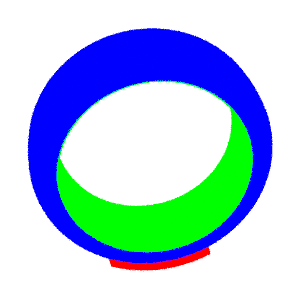
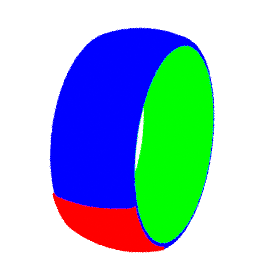
Aim the stone at the lens so it stays in the middle of the finger
Both ways of working out which way the stone should face lean on the tracker's
depth guess, and it is rough: a few degrees of error there roll the ring round the
finger until the stone sits on its edge, which is what a shopper sees and calls
crooked. The stone is now aimed straight at the camera, so it stays on the finger's
centre line whatever the pose, and the metric landmarks keep the one call they make
reliably — back of the hand or palm, which decides whether the stone shows at all.

diff --git a/app.js b/app.js
@@ -629,9 +629,13 @@ function placeRing(srcW, srcH) {
   // the same space as the ring's axis — the picture — otherwise the two disagree and the ring rolls round the
   // finger until the stone slides off its middle. Which face of the hand this is was already settled above
   // from the metric landmarks, which is what they are good for.
-  const rawSeen = new THREE.Vector3().subVectors(pts[5], pts[0])
-    .cross(new THREE.Vector3().subVectors(pts[17], pts[0])).normalize();
-  const palm = state.isRight ? rawSeen : rawSeen.negate();
+  // Both readings of that direction carry the tracker's depth guess, which is rough, and a few degrees of
+  // error there rolls the ring round the finger until the stone sits on its edge. What a shopper wants is
+  // plain: the stone in the middle of the finger, facing them. So the stone is aimed straight at the lens,
+  // and the metric landmarks keep only the one call they make reliably — back of the hand, or palm, which
+  // decides whether the stone shows at all.
+  const towardsCamera = (state.isRight ? raw.z : -raw.z) >= 0 ? 1 : -1;
+  const palm = new THREE.Vector3(0, 0, towardsCamera);
   // A finger pointing at the camera or curled up gives a segment barely a few pixels long: its direction is
   // noise, so hold the last good pose instead of throwing the ring around.
   // A finger folded into a fist has no place to wear a ring that the camera can see: its knuckle segment

diff --git a/blender/fit/fit_metal_bar.py b/blender/fit/fit_metal_bar.py
@@ -57,9 +57,12 @@ def build(p):
 
 
 def render(p):
-    a, r = math.radians(p["alpha"]), math.radians(p["roll"])
-    L.camera(direction=(0.0, -math.cos(a), math.sin(a)), up=(math.sin(r), 0.0, math.cos(r)),
-             target=(0, 0, 0), dist=p["dist"], lens=95)
+    # Нахил від осі пальця на кут alpha, азимут нахилу beta (куди саме відхилена камера навколо кільця),
+    # плюс крен roll. Без beta модель могла нахилятись лише «вгору» — а на цьому фото каблучка
+    # стиснута по горизонталі, тобто камера відведена вбік.
+    a, b, r = math.radians(p["alpha"]), math.radians(p["beta"]), math.radians(p["roll"])
+    L.camera(direction=(math.sin(a) * math.sin(b), -math.cos(a), math.sin(a) * math.cos(b)),
+             up=(math.sin(r), 0.0, math.cos(r)), target=(0, 0, 0), dist=p["dist"], lens=95)
     sc = bpy.context.scene
     sc.render.engine = "CYCLES"
     sc.cycles.samples = 4
@@ -112,15 +115,30 @@ def score(p):
     return 0.40 * s[0] + 0.30 * s[1] + 0.30 * s[2], s
 
 
-P = dict(alpha=16.0, roll=0.0, dist=95.0, dome=0.95, edge_out=1.70, edge_in=0.55,
+P = dict(alpha=40.0, beta=90.0, roll=0.0, dist=95.0, dome=0.95, edge_out=1.70, edge_in=0.55,
          inner_dome=0.10, thick=2.0, r_in=9.88, strip_arc=7.8, strip_phi=205.0)
-STEPS = dict(alpha=8.0, roll=8.0, dist=14.0, dome=0.4, edge_out=0.6, edge_in=0.3,
+STEPS = dict(alpha=8.0, beta=30.0, roll=8.0, dist=14.0, dome=0.4, edge_out=0.6, edge_in=0.3,
              inner_dome=0.15, thick=0.35, r_in=0.7, strip_arc=1.6, strip_phi=14.0)
-BOUNDS = dict(alpha=(3, 88), roll=(-40, 40), dist=(50, 200), dome=(0.15, 1.9), edge_out=(0.3, 3.2),
+BOUNDS = dict(alpha=(3, 88), beta=(-180, 180), roll=(-60, 60), dist=(50, 200), dome=(0.15, 1.9), edge_out=(0.3, 3.2),
               edge_in=(0.1, 1.6), inner_dome=(0.0, 0.6), thick=(1.4, 3.0), r_in=(8.3, 11.0),
-              strip_arc=(4.0, 14.0), strip_phi=(150, 260))
+              strip_arc=(4.0, 14.0), strip_phi=(-180, 360))
 
 t0 = time.time()
+
+# Грубий перебір ракурсу ПЕРЕД спуском: покоординатний спуск сам не вибирається з іншого боку кільця
+# (і застрягає на наскрізному отворі, якого на фото немає).
+grid_best, grid_p = -1, None
+for al in (58, 64, 70, 76, 82):
+    for be in (-135, -90, -45, 0, 45, 90, 135, 180):
+        for ro in (-20, 0, 20):
+            P.update(alpha=al, beta=be, roll=ro)
+            s_, pr_ = score(P)
+            if s_ > grid_best:
+                grid_best, grid_p = s_, (al, be, ro, pr_)
+P.update(alpha=grid_p[0], beta=grid_p[1], roll=grid_p[2])
+print("СІТКА: кут %d° азимут %d° крен %d° -> %.4f (сил %.3f смуга %.3f тунель %.3f)"
+      % (*grid_p[:3], grid_best, *grid_p[3]), flush=True)
+
 best, parts = score(P)
 print("СТАРТ %.4f  силует %.3f смуга %.3f тунель %.3f" % (best, *parts), flush=True)
 evals = 1
